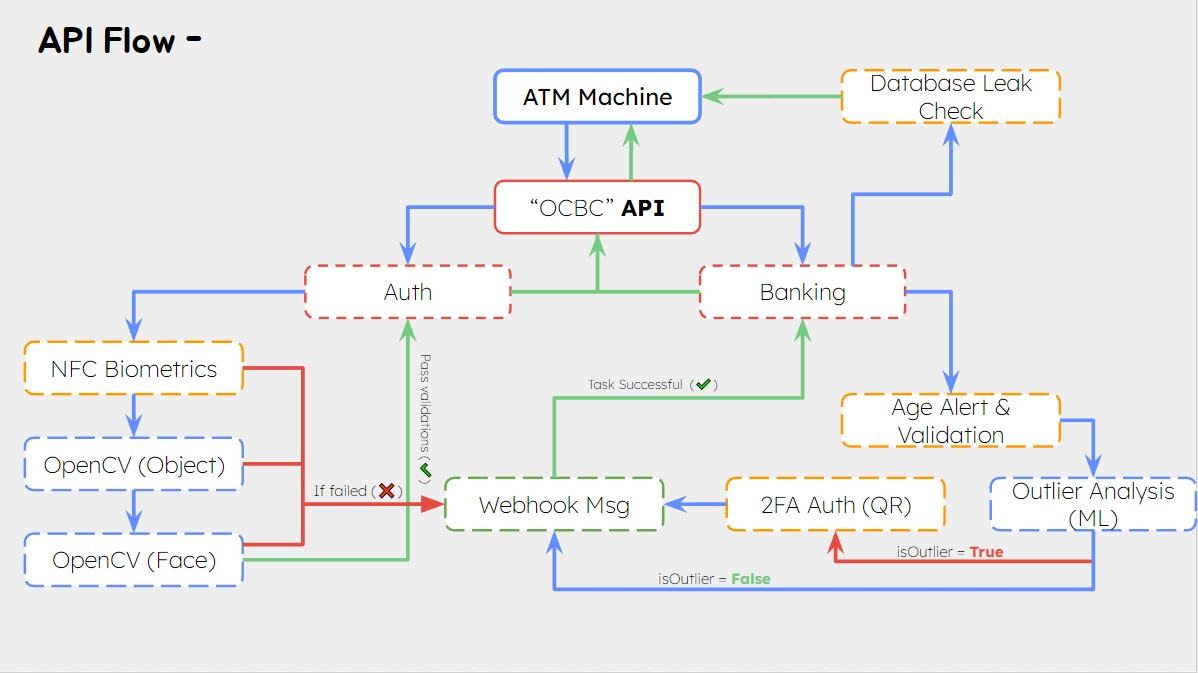
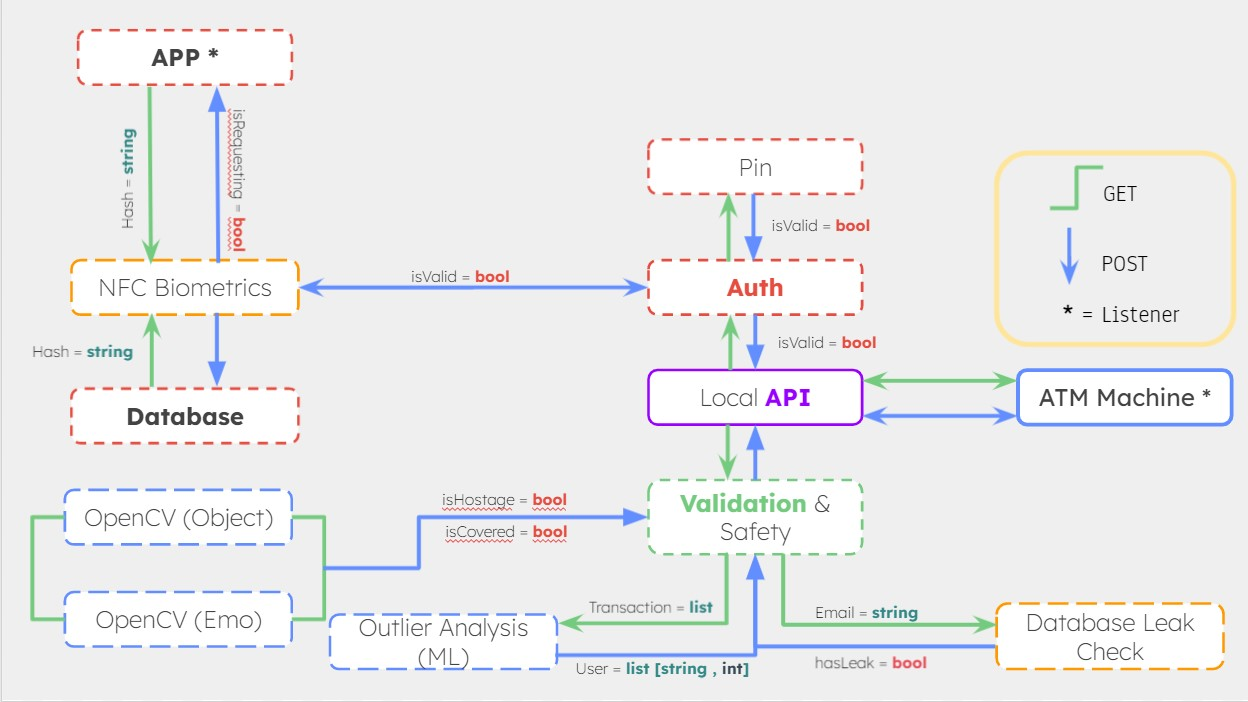
docs: update information - Update README.md - Update API Flow Image

diff --git a/README.md b/README.md
@@ -58,11 +58,21 @@ API Documentation: https://github.com/NotAddison/PFD-2022/blob/main/API/README.m
       - Allow the user to verify the details before transferring money (also can prevent accidental typo).
     
 
-## Potential Validations
-> Necessary validations to improve user experience
-1. Validation for older people [❌]
-2. Validation for large withdrawals [❌]
-3. Validation towards potential scams [❌]
+## Setup
+> Dependencies for the project
+- **Python** => 3.9
+  - OpenCV (Custom CUDA Build) [pip install opencv-python]
+  - Deepface [pip install deepface]
+  - YoloV4
+  - Matplotlib & Pandas
+  - Requests
+- **Flutter**
+  - Android Studio SDK (Virtual Device)
+- **NodeJS** (NPM)
+  - Express
+  - Requests
+  - Python-Shell
+
 
 ## Misc
 > Naming Conventions, Git, References & Credits
